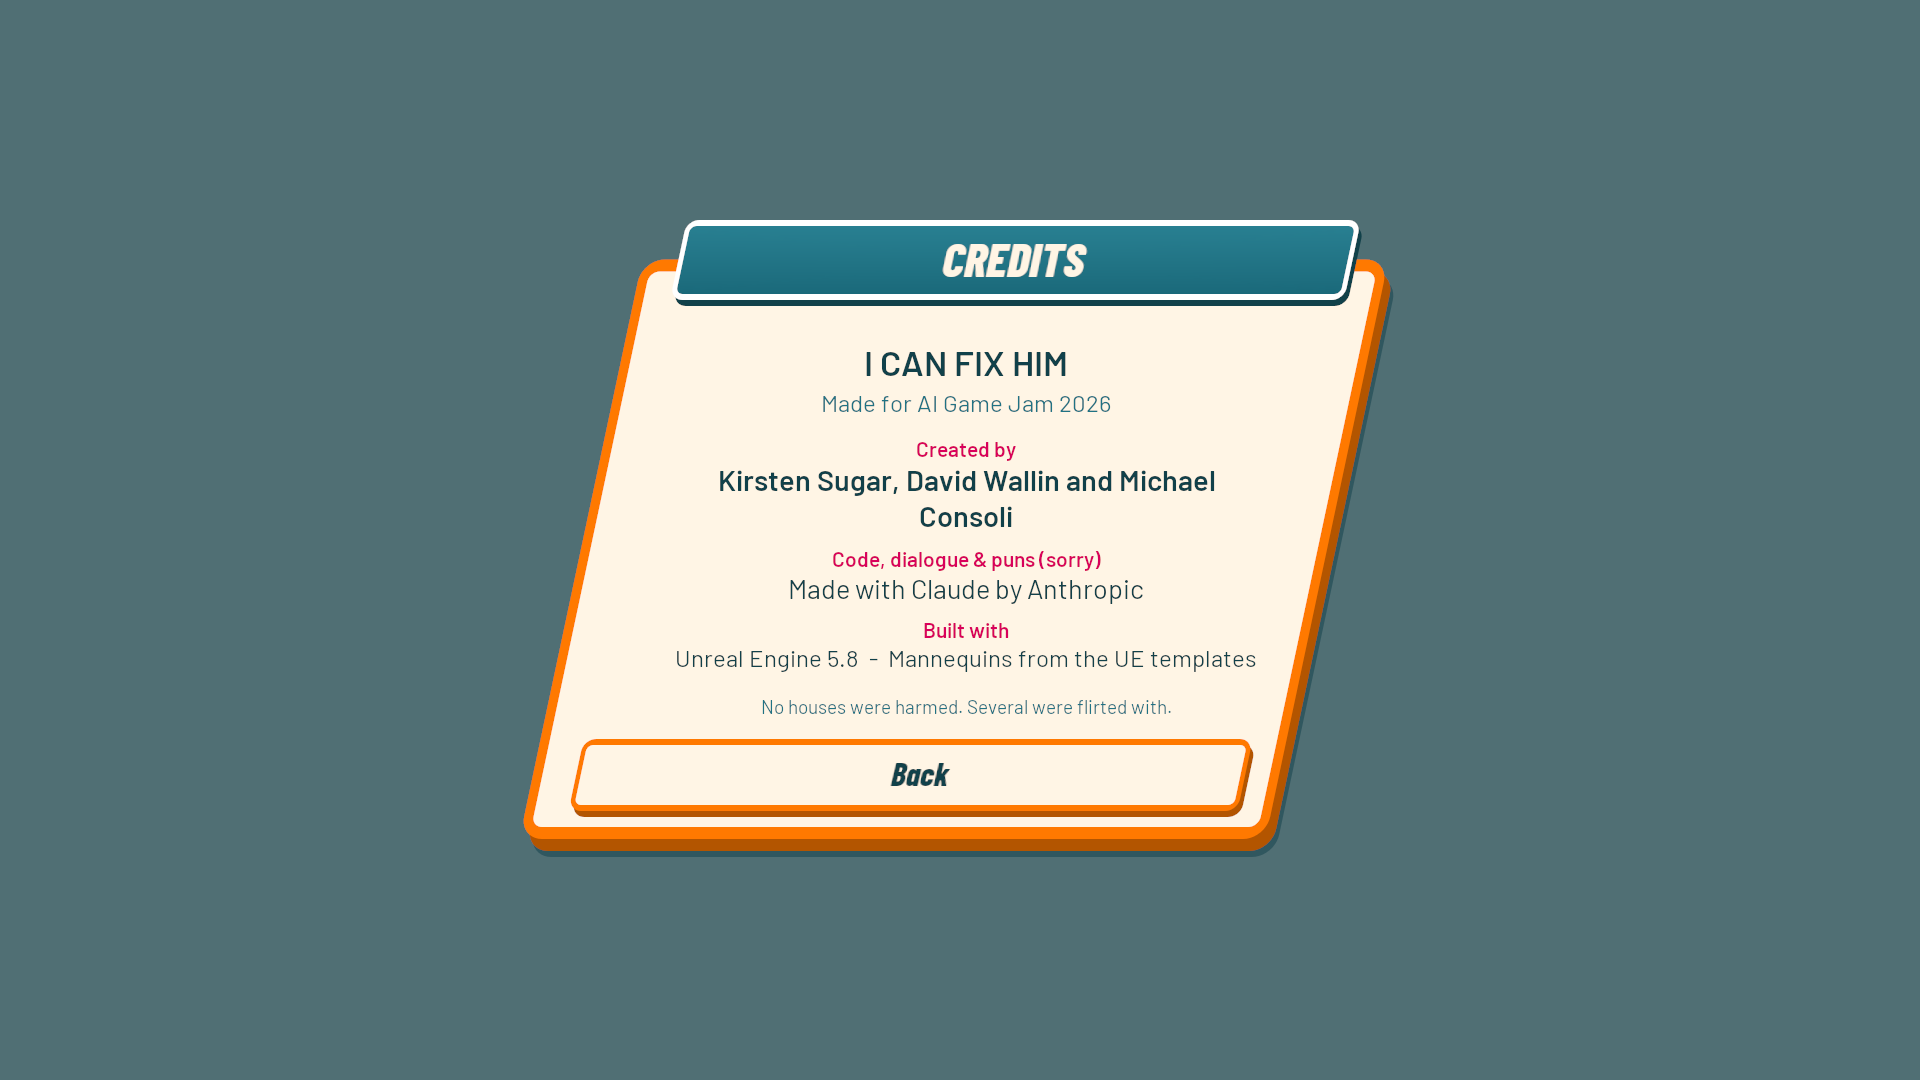
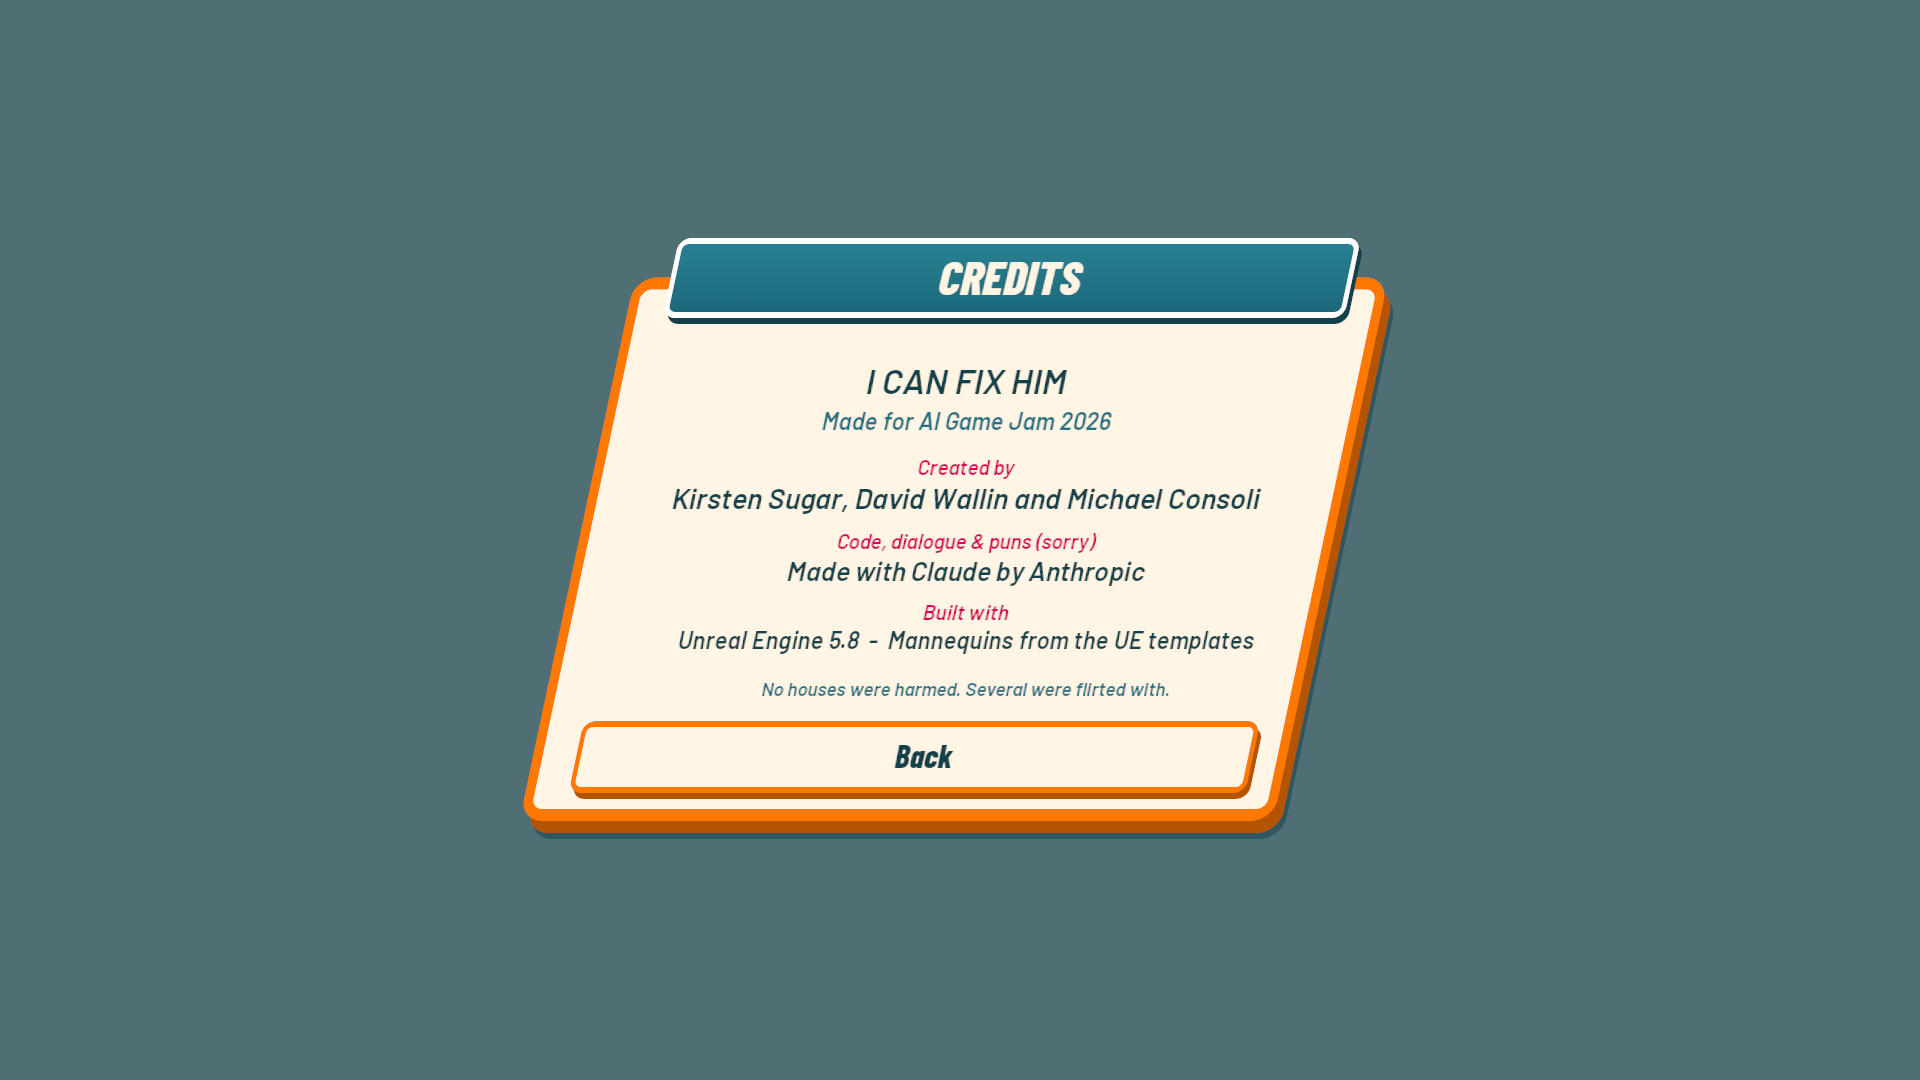
Apply the type rule: all text leans 12 degrees
Titles (headers, name plates) stay all-caps display face; buttons and HUD
plates are mixed-case display face; every other text style resolves to Barlow
SemiBold Italic and is sheared to the 12-degree grid. Floor-plan room labels
and the HUD fixture use mixed case.

Changed region(s): [[0.25, 0.1833, 0.75, 0.7944]]

diff --git a/Source/ICanFixHim/UI/FixHimUI.cpp b/Source/ICanFixHim/UI/FixHimUI.cpp
@@ -52,21 +52,17 @@ FSlateFontInfo Font(int32 Size, const TCHAR *Typeface)
 		}
 		return TStrongObjectPtr<UFont>(F);
 	};
-	static TStrongObjectPtr<UFont> Body = BuildFont({TEXT("Barlow-Regular"), TEXT("Barlow-SemiBold")});
+	// Type rule: titles use the condensed display face; all other text is Barlow SemiBold Italic. Both are 7-degree
+	// italics that MakeText shears to the shared 12-degree grid. Legacy names (Regular/Semibold/Bold/Italic/Lean)
+	// all resolve to the body face.
 	static TStrongObjectPtr<UFont> Display = BuildFont({TEXT("BarlowCondensed-ExtraBoldItalic")});
-	// "Lean": Barlow SemiBold Italic (7 degrees native), sheared like Display to the 12-degree grid.
-	static TStrongObjectPtr<UFont> Lean = BuildFont({TEXT("Barlow-SemiBoldItalic")});
+	static TStrongObjectPtr<UFont> Body = BuildFont({TEXT("Barlow-SemiBoldItalic")});
 	const bool IsDisplay = FCString::Strncmp(Typeface, TEXT("Display"), 7) == 0;
-	const bool IsLean = FCString::Strncmp(Typeface, TEXT("Lean"), 4) == 0;
-	UFont *Asset = IsDisplay ? Display.Get() : IsLean ? Lean.Get() : Body.Get();
+	UFont *Asset = IsDisplay ? Display.Get() : Body.Get();
 	const int32 ScaledSize = FMath::RoundToInt(Size * FixHimDesign::TextScale());
 	return Asset && !Asset->GetCompositeFont()->DefaultTypeface.Fonts.IsEmpty()
-	           ? FSlateFontInfo(Asset, ScaledSize,
-			                    IsDisplay || IsLean ? FName("Regular")
-			                    : FCString::Strstr(Typeface, TEXT("Bold")) || FCString::Strstr(Typeface, TEXT("Semi"))
-	                                ? FName("Semibold")
-									: FName("Regular"))
-			   : FCoreStyle::GetDefaultFontStyle(TEXT("Regular"), ScaledSize);
+	           ? FSlateFontInfo(Asset, ScaledSize, FName("Regular"))
+	           : FCoreStyle::GetDefaultFontStyle(TEXT("Regular"), ScaledSize);
 }
 
 FSlateBrush Rounded(const FLinearColor &Fill, float Radius, const FLinearColor &Outline, float OutlineWidth)
@@ -103,8 +99,8 @@ UTextBlock *MakeText(UWidgetTree *Tree, const FString &Text, int32 Size, const F
 	T->SetFont(Font(Size, Typeface));
 	AuthoredTextSizes.Add(T, Size);
 	T->SetColorAndOpacity(FSlateColor(Color));
-	// "Display"/"Lean" shear per widget; "DisplayFace"/"LeanFace" leave shearing to a parent block.
-	if (FCString::Strcmp(Typeface, TEXT("Display")) == 0 || FCString::Strcmp(Typeface, TEXT("Lean")) == 0)
+	// All text leans 12 degrees. "...Face" typefaces leave the shear to a parent block (e.g. the dialogue line).
+	if (!FString(Typeface).EndsWith(TEXT("Face")))
 	{
 		FWidgetTransform Transform;
 		Transform.Shear = FVector2D(-FMath::RadiansToDegrees(FMath::Atan(FixHimDesign::DisplayShear)), 0);

diff --git a/Source/ICanFixHim/Tests/FixHimDesignSystemTest.cpp b/Source/ICanFixHim/Tests/FixHimDesignSystemTest.cpp
@@ -54,8 +54,8 @@ bool FFixHimDesignSystemTest::RunTest(const FString &Parameters)
 	// Font asset import and cooked object references must work; silently falling back isn't acceptable.
 	const auto BodyFont = FixHimUI::Font(22);
 	const auto *Font = Cast<UFont>(BodyFont.FontObject);
-	TestTrue(TEXT("Imported Barlow regular and semibold loaded"),
-	         Font && Font->GetCompositeFont()->DefaultTypeface.Fonts.Num() == 2);
+	TestTrue(TEXT("Imported Barlow SemiBold Italic body face loaded"),
+	         Font && Font->GetCompositeFont()->DefaultTypeface.Fonts.Num() == 1);
 	const auto *Display = Cast<UFont>(FixHimUI::Font(36, TEXT("Display")).FontObject);
 	TestTrue(TEXT("Imported Barlow Condensed display loaded"),
 	         Display && Display->GetCompositeFont()->DefaultTypeface.Fonts.Num() == 1);
@@ -329,7 +329,7 @@ bool FFixHimDesignSystemTest::RunTest(const FString &Parameters)
 	Render(Keepsake, TEXT("16-keepsake-chooser"), {1920, 1080}, {1920, 1080});
 	auto *HUD = Make.template operator()<UFixHimHUDWidget>();
 	HUD->TakeWidget();
-	HUD->SetRoomName(FText::FromString(TEXT("LIVING ROOM")));
+	HUD->SetRoomName(FText::FromString(TEXT("Living Room")));
 	HUD->SetRepairs(2, 4, 2, 4);
 	HUD->SetReticle(true, EFixHimInteractionAction::Talk, FText::FromString(TEXT("Talk to Wyatt")));
 	HUD->ShowToast(TEXT("A little less broken."), 4.f, false);

diff --git a/Source/ICanFixHim/UI/FixHimDesignReview.cpp b/Source/ICanFixHim/UI/FixHimDesignReview.cpp
@@ -43,7 +43,7 @@ void UFixHimDesignReviewWidget::BuildUI()
 	Sample(R, TEXT("Disabled"), false, false, false, false);
 	Section(TEXT("READING & REPLIES / FULL AUTHORED COPY"));
 	auto *Body = MakeText(
-	    WidgetTree, TEXT("Barlow Regular for reading. Semibold for emphasis. Body text stays upright."), 22, Plum);
+	    WidgetTree, TEXT("Barlow SemiBold Italic for reading. Every line of text leans 12°."), 22, Plum);
 	Body->SetAutoWrapText(true);
 	Col->AddChildToVerticalBox(Body)->SetPadding(FMargin(0, 0, 0, 16));
 	auto *Reply = UFixHimButton::Make(
@@ -82,7 +82,7 @@ void UFixHimDesignReviewWidget::BuildUI()
 		R->AddChildToHorizontalBox(B)->SetPadding(FMargin(0, 0, 20, 0));
 	}
 	auto *Hint = MakeText(WidgetTree,
-	                      TEXT("12° shared contours and placement grid · Upright reading text · Tab / arrows to "
+	                      TEXT("12° contours, placement grid and text · Tab / arrows to "
 	                           "navigate · Enter / A to activate"),
 	                      16, PlumSoft);
 	Hint->SetAutoWrapText(true);

diff --git a/Source/ICanFixHim/UI/FixHimFloorPlanWidget.cpp b/Source/ICanFixHim/UI/FixHimFloorPlanWidget.cpp
@@ -122,7 +122,7 @@ void UFixHimFloorPlanWidget::Refresh()
 		const bool ExternalLabel = Size.X < 120.f * FixHimDesign::TextScale();
 
 		UVerticalBox *Info = WidgetTree->ConstructWidget<UVerticalBox>();
-		UTextBlock *Name = MakeText(WidgetTree, Room->DisplayName.ToString().ToUpper(), 20, Line, TEXT("Bold"));
+		UTextBlock *Name = MakeText(WidgetTree, Room->DisplayName.ToString(), 20, Line, TEXT("Bold"));
 		Name->SetJustification(ETextJustify::Center);
 		Name->SetAutoWrapText(true);
 		Name->SetWrappingPolicy(ETextWrappingPolicy::DefaultWrapping);

diff --git a/docs/03 Art & Audio/UI Design System.md b/docs/03 Art & Audio/UI Design System.md
@@ -49,12 +49,13 @@ Keep cream reading surfaces, disabled controls and reticles flat. Avoid glossy s
 
 | Role | Font | Treatment |
 |---|---|---|
-| Headings, short display labels | Barlow Condensed ExtraBold Italic, 800 | Effective 12° right lean |
-| All dialogue text (spoken lines, narration, replies) | Barlow SemiBold Italic, 600, at 26 | Effective 12° right lean |
-| Helper text | Barlow Regular, 400 | Upright |
-| Body emphasis and stronger labels | Barlow Semibold, 600 | Upright |
+| Titles (headers, name plates): **all caps** | Barlow Condensed ExtraBold Italic, 800 | Effective 12° right lean |
+| Buttons and HUD plates: **mixed case** | Barlow Condensed ExtraBold Italic, 800 | Effective 12° right lean |
+| All other text: dialogue (26), body copy, labels, hints | Barlow SemiBold Italic, 600 | Effective 12° right lean |
 
-Barlow Condensed's native italic lean is 7°. The selected 12° treatment requires an additional synthetic shear on display glyphs, not a different native font variant. Added shear tangent: `tan(12°) - tan(7°) = 0.0897720008`. Text baselines stay horizontal. Spoken lines are sheared as one block, so wrapped lines also step along the grid. Do not skew upright body text or icons.
+**Rule: every piece of text leans 12°.** Both faces are 7° native italics topped up with the same synthetic shear. Upright Barlow Regular/Semibold are no longer used.
+
+Barlow Condensed's native italic lean is 7°. Barlow SemiBold Italic is also 7°. The selected 12° treatment adds the same synthetic shear to both faces. Added shear tangent: `tan(12°) - tan(7°) = 0.0897720008`. Text baselines stay horizontal. Spoken lines are sheared as one block, so wrapped lines also step along the grid. Icons stay upright.
 
 Use the [bundled font files and SIL OFL 1.1 license](../../Art%20Source/UI%20Concepts/Selected%2007/Foundation%2002/Fonts/). Final sizes, wrapping and UI scale need testing in Unreal. Do not shrink text or shorten authored dialogue to fit a layout.
 
@@ -75,7 +76,7 @@ The selected treatment restores **rounded corners, thicker asymmetric borders an
 - The **dialogue header** straddles the panel's top edge: a pink name plate (name only, 66-unit display face) and a teal strip tucked behind it holding the three meters. Each meter is a thick bar in its stat color with a round stat-colored icon badge overlaid on its left end; no text labels or dividers. The meters start at a fixed position that clears the widest name any speaker can have in the playthrough (hunks, extra speakers, the player's name) by at least 36 units, so they never shift between speakers. Replies are unnumbered; number keys still choose by position. Narration has no header. Spoken lines and replies share one size.
 - Use common silhouettes and contour layers across button states and popup variants. Reuse one modal shell with width variants and content-driven height.
 - Primary actions use pink; secondary surfaces use cream. Focus needs a pointer or keyline as well as color. Do not add hearts to focused replies or imply relationship outcomes.
-- Body text and icons remain upright. Do not rotate a whole popup or shear a brand master.
+- Icons remain upright. Do not rotate a whole popup or shear a brand master.
 - Remove construction stripes. Remove the three-ray flourish from the base kit; bringing it back selectively for surprises is deferred.
 
 Placement formula: `x = originX + u - v * tan(12°); y = originY + v`. A slanted edge of height `h` has horizontal inset `h * tan(12°)`.

diff --git a/docs/04 Tech/UI Component Library.md b/docs/04 Tech/UI Component Library.md
@@ -17,7 +17,7 @@ Implementation companion to [[UI Design System]]. The visual decisions remain th
 | `Art Source/UI/Design/` | Prepared font files, icon masks, logo and licenses |
 | `Content/ICanFixHim/UI/Design/` | Imported cooked assets |
 
-Imported font faces are assembled into strongly referenced runtime `UFont` families. Body Regular and Semibold use Barlow; display uses Barlow Condensed ExtraBold Italic. The display transform adds only the shear needed to reach 12°. Body emphasis stays upright. Screen widgets should obtain text from `FixHimUI::MakeText` / `Font`, not the engine default font.
+Imported font faces are assembled into strongly referenced runtime `UFont` families. Titles, buttons and HUD plates use the display face (Barlow Condensed ExtraBold Italic); every other typeface name resolves to Barlow SemiBold Italic. Both are 7° italics; `MakeText` adds only the shear needed to reach 12°, except for `...Face` typefaces placed inside an already-sheared block. Screen widgets should obtain text from `FixHimUI::MakeText` / `Font`, not the engine default font.
 
 ## Surface and placement primitives
 
